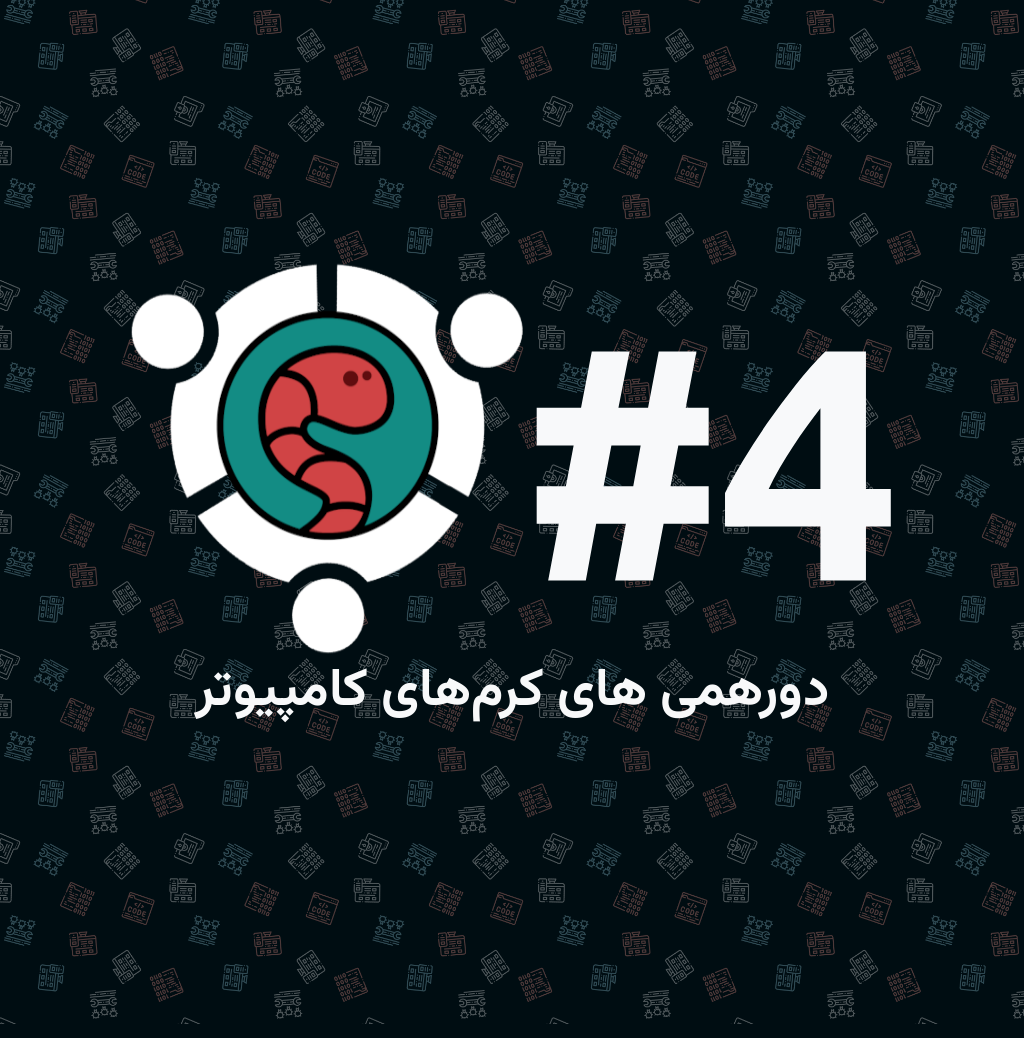
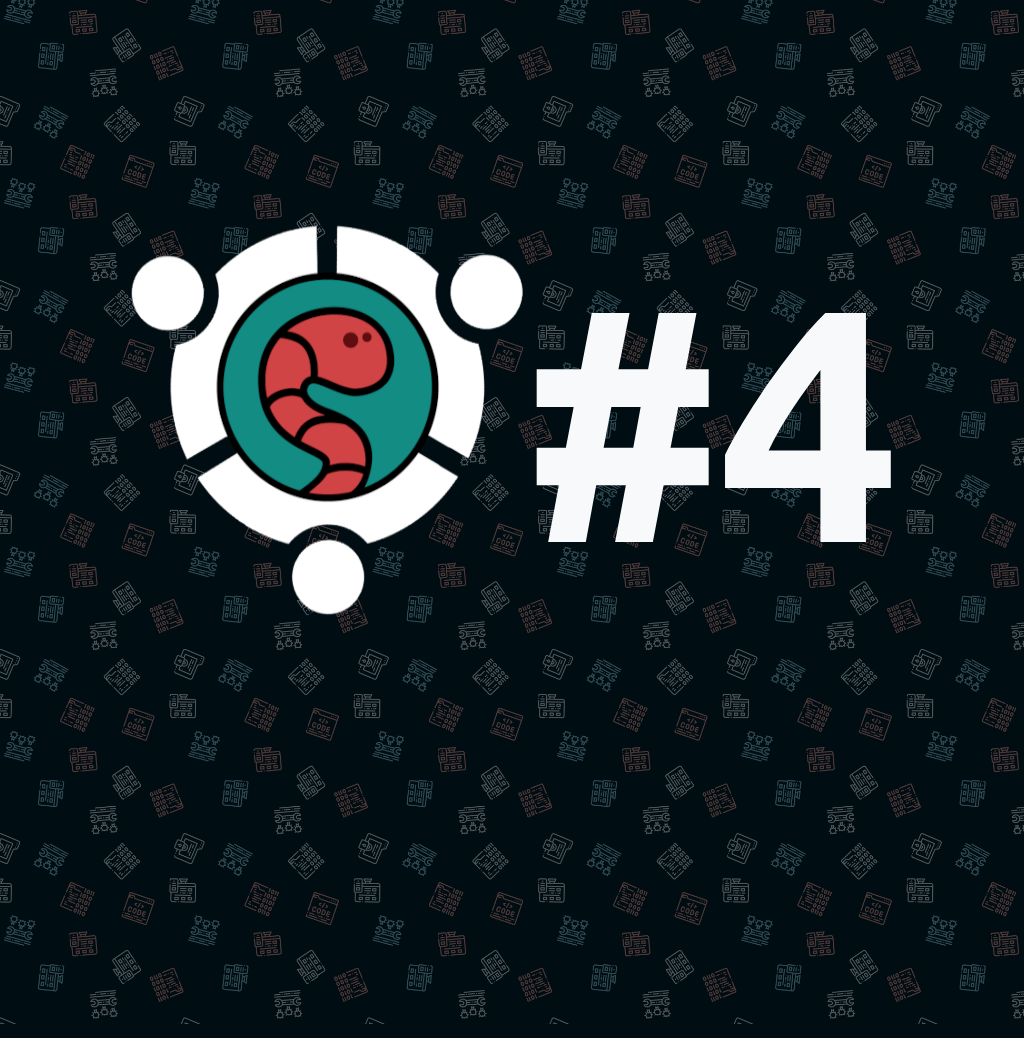
deploy: 8fa183da16552cd1e175030573df2fae1d0d470f

Changed region(s): [[0.125, 0.2158, 0.8438, 0.7091], [0.8438, 0.4316, 0.875, 0.5241]]

diff --git a/preview.html b/preview.html
@@ -24,11 +24,6 @@
                 <span class="big-text d-inline-block">#4</span>
             </div>
         </div>
-        <div class="row">
-            <div class="col text-center">
-                <h1 class="fs-1">دورهمی های کرمهای کامپیوتر</h1>
-            </div>
-        </div>
     </div>
 </body>
 

diff --git a/preview.css b/preview.css
@@ -8,3 +8,7 @@ html, body{
     top: 50%;
     transform: translateY(50%);
 }
+
+.profile{
+    width: 200px;
+}
